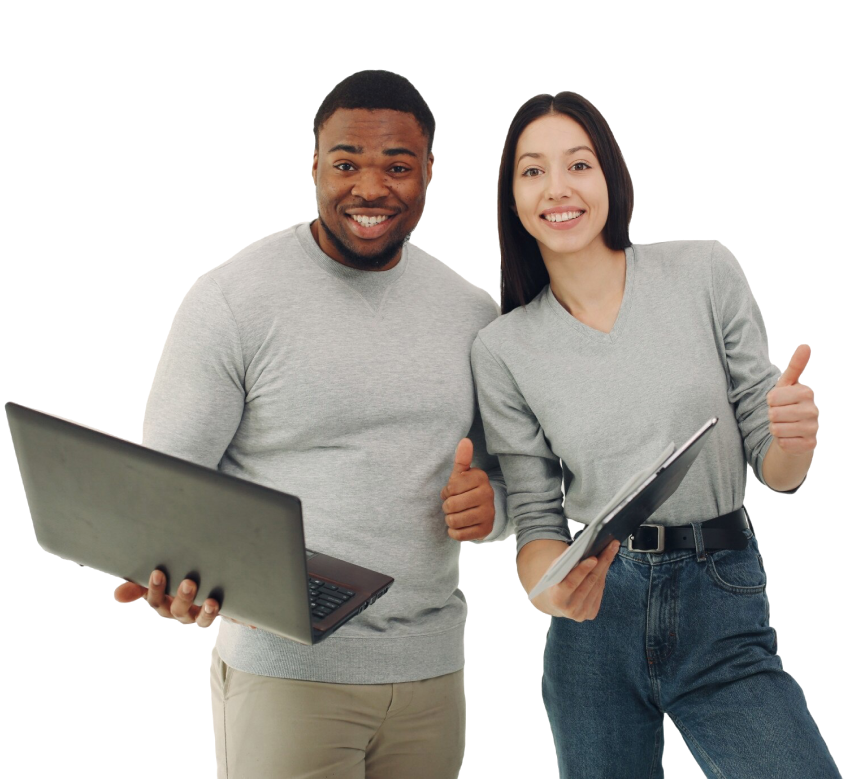
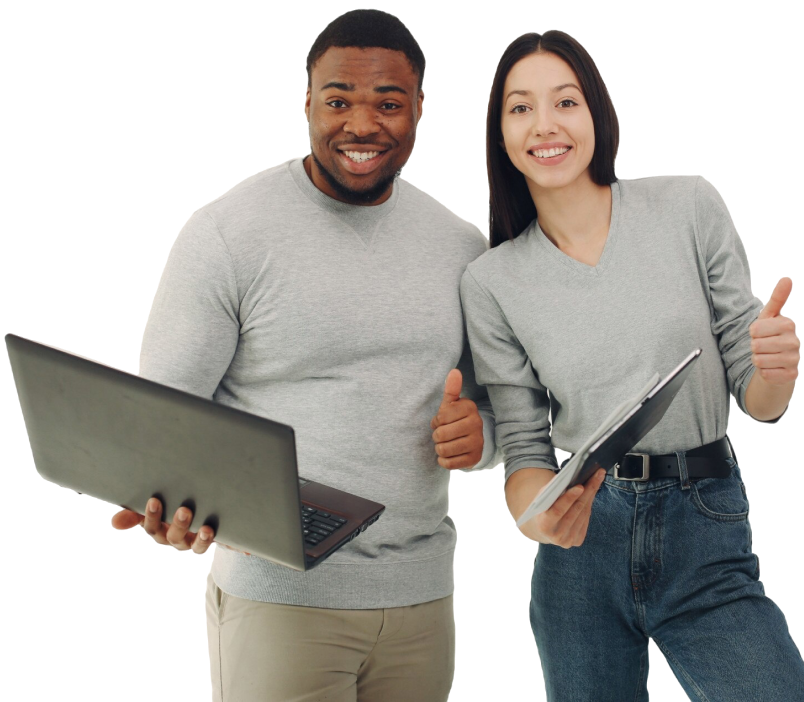
fix:hero

diff --git a/src/sections/home/hero.tsx b/src/sections/home/hero.tsx
@@ -12,9 +12,9 @@ export const HeroSection = () => [
       />
 
       <div className="container">
-         <div className="md:grid md:grid-cols-2">
+         <div className="md:grid md:grid-cols-[auto_1fr]">
             <div id="text-writer" className="py-20 lg:py-28">
-               <div id="hero-text" className="max-w-[580px]">
+               <div id="hero-text" className="md:max-w-md lg:max-w-[580px]">
                   <div className="!min-h-10">
                      <Typewriter
                         options={{
@@ -43,7 +43,7 @@ export const HeroSection = () => [
                </div>
 
                {/* NOTE: Clients Small Screen Only (Less than Tablet) max-lg:hidden*/}
-               <div className="flex flex-wrap items-center gap-6 mt-24 ">
+               <div className="flex flex-wrap items-center gap-6 mt-24 md:max-w-md lg:max-w-max">
                   <Typography variant="" className="font-semibold text-md">
                      Trusted by over <br />
                      <span className="text-xl font-medium">10+</span> Clients
@@ -56,11 +56,11 @@ export const HeroSection = () => [
                </div>
             </div>
 
-            <div className="max-md:-mb-4 max-md:mt-4">
+            <div className="relative w-full max-md:-mb-4 max-md:mt-4">
                <img
                   src="/hero.png"
                   loading="lazy"
-                  className="object-cover object-left size-full"
+                  className="object-cover object-left size-full "
                />
             </div>
          </div>
